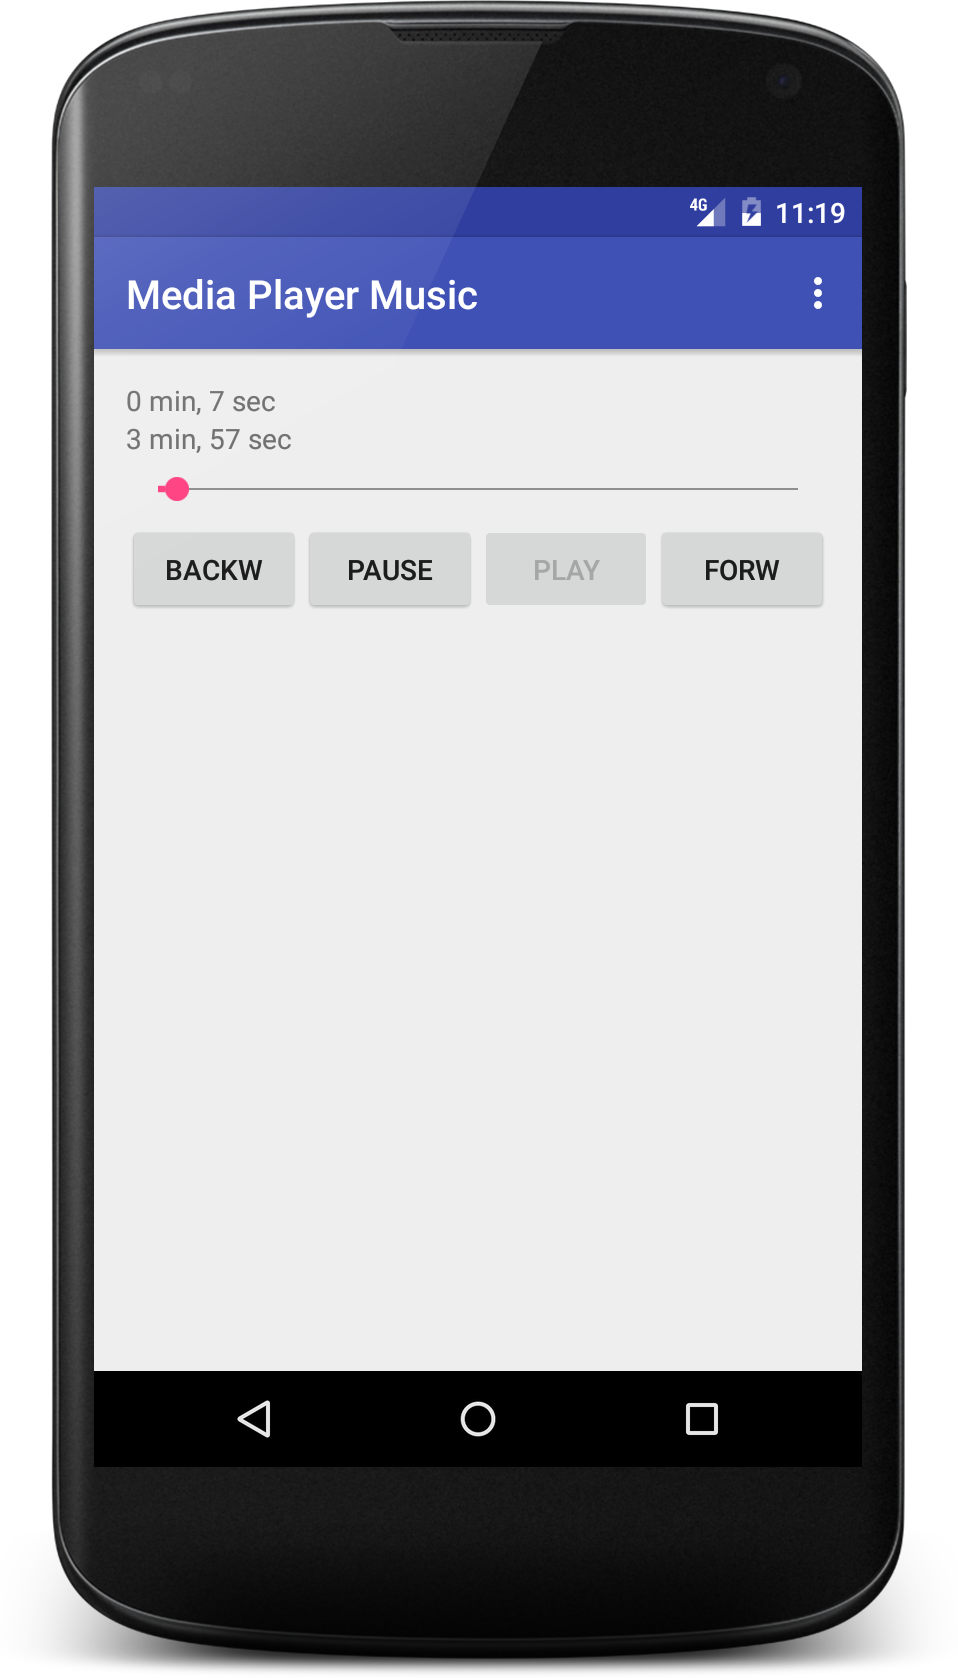
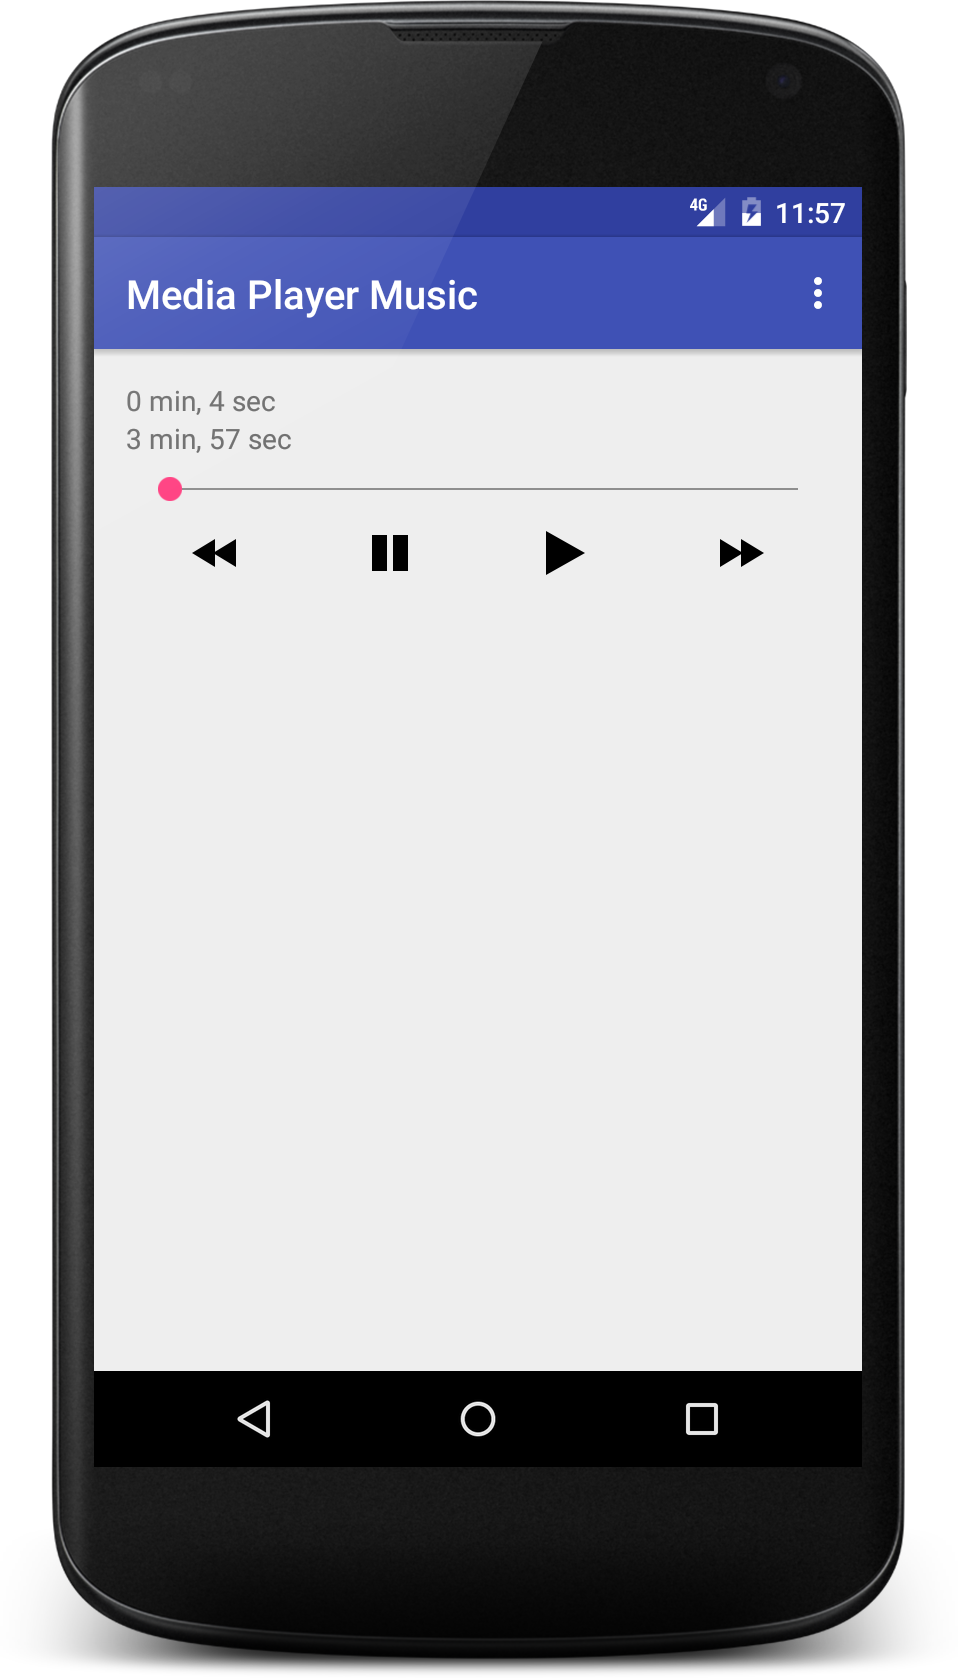
change button to imageview

diff --git a/app/src/main/java/com/github/avew/mpexample/MainActivity.java b/app/src/main/java/com/github/avew/mpexample/MainActivity.java
@@ -8,7 +8,7 @@ import android.support.v7.app.AppCompatActivity;
 import android.support.v7.widget.Toolbar;
 import android.view.Menu;
 import android.view.MenuItem;
-import android.widget.Button;
+import android.widget.ImageView;
 import android.widget.SeekBar;
 import android.widget.TextView;
 import android.widget.Toast;
@@ -31,16 +31,16 @@ public class MainActivity extends AppCompatActivity {
     SeekBar mSeekBar;
 
     @BindView(R.id.btn_forward)
-    Button mBtnForward;
+    ImageView mBtnForward;
 
     @BindView(R.id.btn_play)
-    Button mBtnPlay;
+    ImageView mBtnPlay;
 
     @BindView(R.id.btn_pause)
-    Button mBtnPause;
+    ImageView mBtnPause;
 
     @BindView(R.id.btn_backward)
-    Button mBtnBackward;
+    ImageView mBtnBackward;
 
     @BindView(R.id.text_view_playing_time)
     TextView mTvPlayingTime;
@@ -70,6 +70,7 @@ public class MainActivity extends AppCompatActivity {
         mediaPlayer = MediaPlayer.create(this, R.raw.song);
         mSeekBar.setClickable(false);
         mBtnPause.setEnabled(false);
+        mBtnPause.setBackgroundResource(android.R.color.darker_gray);
         mediaPlayer.setOnCompletionListener(new MediaPlayer.OnCompletionListener() {
             @Override
             public void onCompletion(MediaPlayer mediaPlayer) {
@@ -120,6 +121,7 @@ public class MainActivity extends AppCompatActivity {
         myHandler.postDelayed(UpdateSongTime, 100);
 
         mBtnPause.setEnabled(true);
+        mBtnPause.setBackgroundResource(android.R.color.transparent);
         mBtnPlay.setEnabled(false);
     }
 
@@ -128,7 +130,14 @@ public class MainActivity extends AppCompatActivity {
         Toast.makeText(this, "Pausing", Toast.LENGTH_SHORT).show();
         mediaPlayer.pause();
         mBtnPlay.setEnabled(true);
+        mBtnPause.setBackgroundResource(android.R.color.darker_gray);
         mBtnPause.setEnabled(false);
+    }
+
+    @Override
+    protected void onDestroy() {
+        mediaPlayer.stop();
+        super.onDestroy();
     }
 
     @OnClick(R.id.btn_forward)

diff --git a/README.md b/README.md
@@ -2,6 +2,7 @@
 This is an example of playing music in android. Inside there are functions start, pause, backward and forward.
 ## Screenshot :
 <img src="screenshot/1.png" width="300">
+<img src="screenshot/2.png" width="300">
 
 ### Reference
 - [http://www.tutorialspoint.com/android/android_mediaplayer.htm](http://www.tutorialspoint.com/android/android_mediaplayer.htm)
